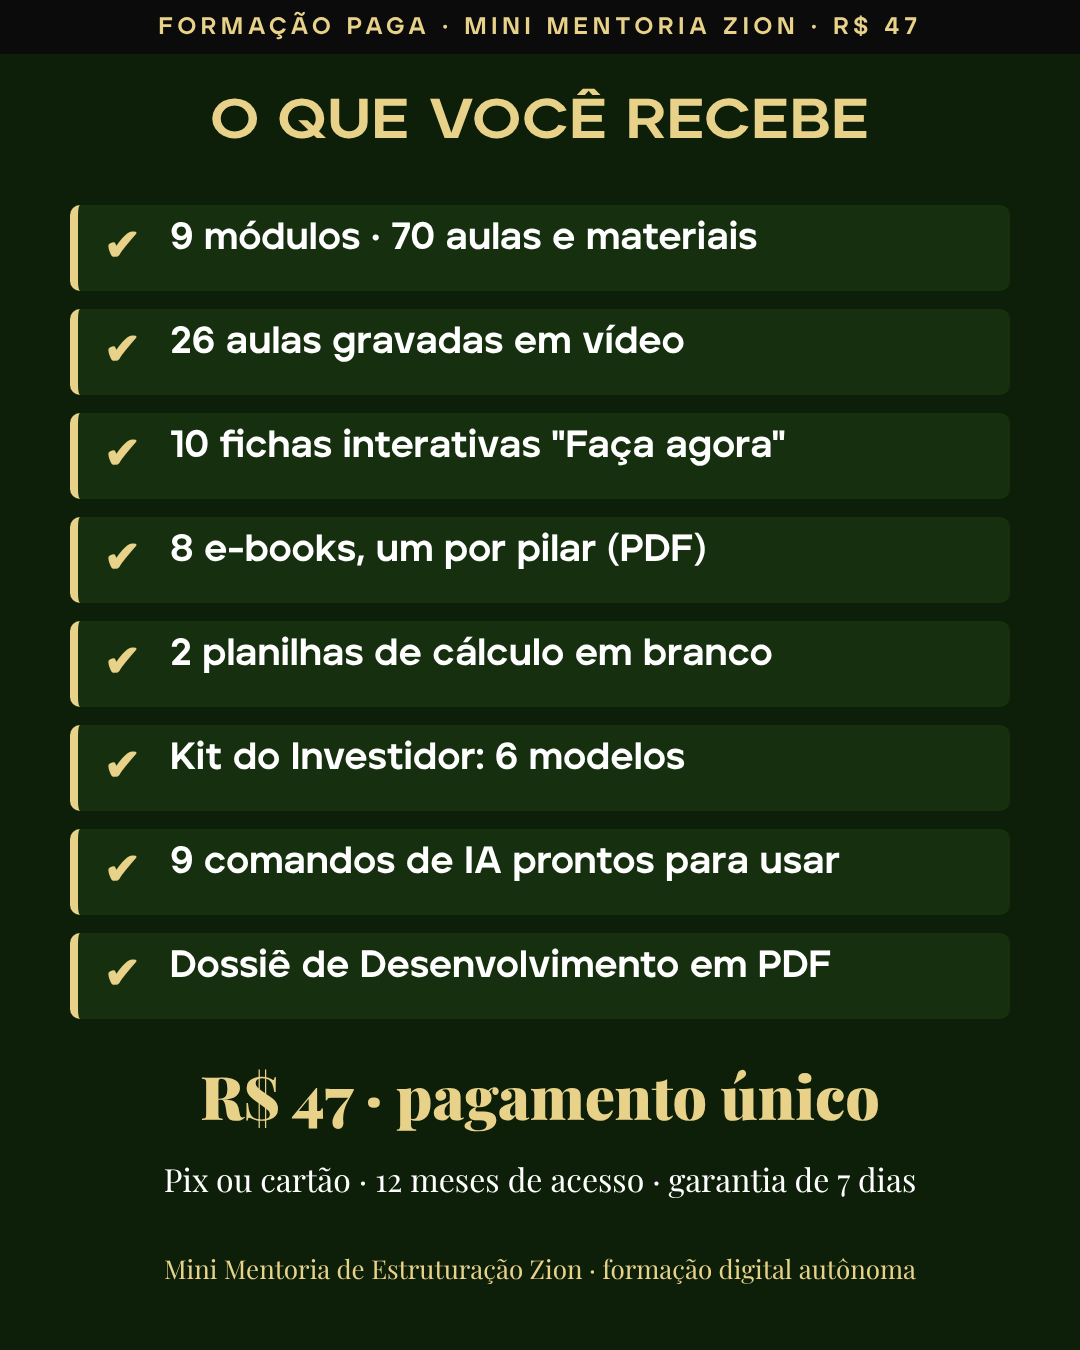
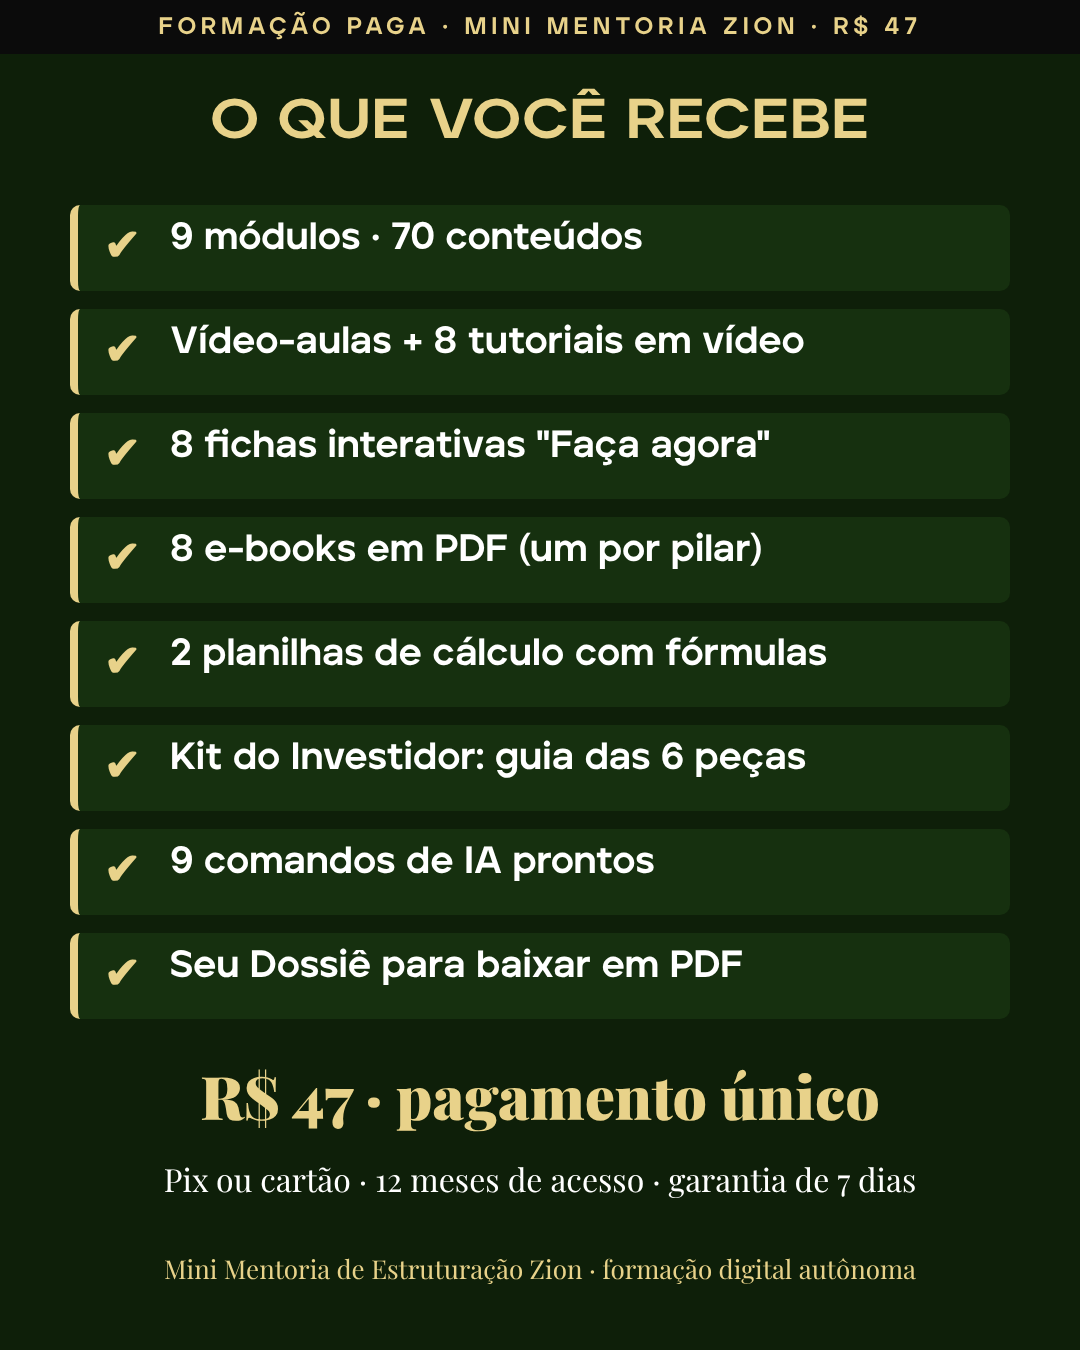
Carrossel C venda: cartão 8 com redação segura após a vistoria dos entregáveis
Claude-Session: https://claude.ai/code/session_01BzUk5bYdjCT6eSVqUG9zKZ

diff --git a/docs/ads/venda-carrossel-c/build.js b/docs/ads/venda-carrossel-c/build.js
@@ -59,14 +59,14 @@ const cards=[
 // 6b entregáveis claros (a pedido de Bruno): lista objetiva do que a pessoa recebe (contagens verificadas em ENTREGAVEIS_VERIFICADOS.md)
 [`o1.png`,`<div class="b" style="left:0;top:0;width:1080px;height:1350px;background:#0e1f09"></div>
 <div class="b w" style="left:60px;right:60px;top:92px;font-size:56px;color:#e8d28a">O que você recebe</div>
-<div class="b" style="left:70px;top:205px;width:940px;height:86px;background:#16300f;border-left:8px solid #e8d28a;border-radius:10px"></div><div class="b" style="left:104px;top:219px;font-family:A;font-weight:900;font-size:44px;color:#e8d28a">✔</div><div class="b" style="left:170px;width:830px;top:218px;font-family:A;font-weight:800;font-size:38px;color:#fff;line-height:1.1">9 módulos · 70 aulas e materiais</div>
-<div class="b" style="left:70px;top:309px;width:940px;height:86px;background:#16300f;border-left:8px solid #e8d28a;border-radius:10px"></div><div class="b" style="left:104px;top:323px;font-family:A;font-weight:900;font-size:44px;color:#e8d28a">✔</div><div class="b" style="left:170px;width:830px;top:322px;font-family:A;font-weight:800;font-size:38px;color:#fff;line-height:1.1">26 aulas gravadas em vídeo</div>
-<div class="b" style="left:70px;top:413px;width:940px;height:86px;background:#16300f;border-left:8px solid #e8d28a;border-radius:10px"></div><div class="b" style="left:104px;top:427px;font-family:A;font-weight:900;font-size:44px;color:#e8d28a">✔</div><div class="b" style="left:170px;width:830px;top:426px;font-family:A;font-weight:800;font-size:38px;color:#fff;line-height:1.1">10 fichas interativas "Faça agora"</div>
-<div class="b" style="left:70px;top:517px;width:940px;height:86px;background:#16300f;border-left:8px solid #e8d28a;border-radius:10px"></div><div class="b" style="left:104px;top:531px;font-family:A;font-weight:900;font-size:44px;color:#e8d28a">✔</div><div class="b" style="left:170px;width:830px;top:530px;font-family:A;font-weight:800;font-size:38px;color:#fff;line-height:1.1">8 e-books, um por pilar (PDF)</div>
-<div class="b" style="left:70px;top:621px;width:940px;height:86px;background:#16300f;border-left:8px solid #e8d28a;border-radius:10px"></div><div class="b" style="left:104px;top:635px;font-family:A;font-weight:900;font-size:44px;color:#e8d28a">✔</div><div class="b" style="left:170px;width:830px;top:634px;font-family:A;font-weight:800;font-size:38px;color:#fff;line-height:1.1">2 planilhas de cálculo em branco</div>
-<div class="b" style="left:70px;top:725px;width:940px;height:86px;background:#16300f;border-left:8px solid #e8d28a;border-radius:10px"></div><div class="b" style="left:104px;top:739px;font-family:A;font-weight:900;font-size:44px;color:#e8d28a">✔</div><div class="b" style="left:170px;width:830px;top:738px;font-family:A;font-weight:800;font-size:38px;color:#fff;line-height:1.1">Kit do Investidor: 6 modelos</div>
-<div class="b" style="left:70px;top:829px;width:940px;height:86px;background:#16300f;border-left:8px solid #e8d28a;border-radius:10px"></div><div class="b" style="left:104px;top:843px;font-family:A;font-weight:900;font-size:44px;color:#e8d28a">✔</div><div class="b" style="left:170px;width:830px;top:842px;font-family:A;font-weight:800;font-size:38px;color:#fff;line-height:1.1">9 comandos de IA prontos para usar</div>
-<div class="b" style="left:70px;top:933px;width:940px;height:86px;background:#16300f;border-left:8px solid #e8d28a;border-radius:10px"></div><div class="b" style="left:104px;top:947px;font-family:A;font-weight:900;font-size:44px;color:#e8d28a">✔</div><div class="b" style="left:170px;width:830px;top:946px;font-family:A;font-weight:800;font-size:38px;color:#fff;line-height:1.1">Dossiê de Desenvolvimento em PDF</div>
+<div class="b" style="left:70px;top:205px;width:940px;height:86px;background:#16300f;border-left:8px solid #e8d28a;border-radius:10px"></div><div class="b" style="left:104px;top:219px;font-family:A;font-weight:900;font-size:44px;color:#e8d28a">✔</div><div class="b" style="left:170px;width:830px;top:218px;font-family:A;font-weight:800;font-size:38px;color:#fff;line-height:1.1">9 módulos · 70 conteúdos</div>
+<div class="b" style="left:70px;top:309px;width:940px;height:86px;background:#16300f;border-left:8px solid #e8d28a;border-radius:10px"></div><div class="b" style="left:104px;top:323px;font-family:A;font-weight:900;font-size:44px;color:#e8d28a">✔</div><div class="b" style="left:170px;width:830px;top:322px;font-family:A;font-weight:800;font-size:38px;color:#fff;line-height:1.1">Vídeo-aulas + 8 tutoriais em vídeo</div>
+<div class="b" style="left:70px;top:413px;width:940px;height:86px;background:#16300f;border-left:8px solid #e8d28a;border-radius:10px"></div><div class="b" style="left:104px;top:427px;font-family:A;font-weight:900;font-size:44px;color:#e8d28a">✔</div><div class="b" style="left:170px;width:830px;top:426px;font-family:A;font-weight:800;font-size:38px;color:#fff;line-height:1.1">8 fichas interativas "Faça agora"</div>
+<div class="b" style="left:70px;top:517px;width:940px;height:86px;background:#16300f;border-left:8px solid #e8d28a;border-radius:10px"></div><div class="b" style="left:104px;top:531px;font-family:A;font-weight:900;font-size:44px;color:#e8d28a">✔</div><div class="b" style="left:170px;width:830px;top:530px;font-family:A;font-weight:800;font-size:38px;color:#fff;line-height:1.1">8 e-books em PDF (um por pilar)</div>
+<div class="b" style="left:70px;top:621px;width:940px;height:86px;background:#16300f;border-left:8px solid #e8d28a;border-radius:10px"></div><div class="b" style="left:104px;top:635px;font-family:A;font-weight:900;font-size:44px;color:#e8d28a">✔</div><div class="b" style="left:170px;width:830px;top:634px;font-family:A;font-weight:800;font-size:38px;color:#fff;line-height:1.1">2 planilhas de cálculo com fórmulas</div>
+<div class="b" style="left:70px;top:725px;width:940px;height:86px;background:#16300f;border-left:8px solid #e8d28a;border-radius:10px"></div><div class="b" style="left:104px;top:739px;font-family:A;font-weight:900;font-size:44px;color:#e8d28a">✔</div><div class="b" style="left:170px;width:830px;top:738px;font-family:A;font-weight:800;font-size:38px;color:#fff;line-height:1.1">Kit do Investidor: guia das 6 peças</div>
+<div class="b" style="left:70px;top:829px;width:940px;height:86px;background:#16300f;border-left:8px solid #e8d28a;border-radius:10px"></div><div class="b" style="left:104px;top:843px;font-family:A;font-weight:900;font-size:44px;color:#e8d28a">✔</div><div class="b" style="left:170px;width:830px;top:842px;font-family:A;font-weight:800;font-size:38px;color:#fff;line-height:1.1">9 comandos de IA prontos</div>
+<div class="b" style="left:70px;top:933px;width:940px;height:86px;background:#16300f;border-left:8px solid #e8d28a;border-radius:10px"></div><div class="b" style="left:104px;top:947px;font-family:A;font-weight:900;font-size:44px;color:#e8d28a">✔</div><div class="b" style="left:170px;width:830px;top:946px;font-family:A;font-weight:800;font-size:38px;color:#fff;line-height:1.1">Seu Dossiê para baixar em PDF</div>
 <div class="b s" style="left:60px;right:60px;top:1062px;font-size:60px;font-weight:900;color:#e8d28a">R$ 47 · pagamento único</div>
 <div class="b s" style="left:60px;right:60px;top:1160px;font-size:32px;color:#fff;line-height:1.2">Pix ou cartão · 12 meses de acesso · garantia de 7 dias</div>
 <div class="b s" style="left:60px;right:60px;top:1255px;font-size:26px;color:#e8d28a">Mini Mentoria de Estruturação Zion · formação digital autônoma</div>`],

diff --git a/docs/ads/venda-carrossel-c/COPIES.md b/docs/ads/venda-carrossel-c/COPIES.md
@@ -51,3 +51,6 @@ Observação: manifesto.json e painel-comparacao.jpg ainda descrevem a versão d
 - **Cartão 9 (novo): "Por dentro da plataforma"**, com duas telas reais maiores (Diagnóstico prévio e Pré-viabilidade) e "Cada ficha vira uma página do seu Dossiê de Desenvolvimento".
 - **Cartão 10:** conversão (botão "QUERO ACESSAR A PLATAFORMA POR R$47").
 - Não afirmar "70 aulas em vídeo" (só 26 são vídeo) nem calculadoras/simuladores.
+
+## Correção após a vistoria (25/11, VISTORIA_ENTREGAVEIS.md)
+Cartão 8 reescrito com a redação segura confirmada: 9 módulos · 70 conteúdos; Vídeo-aulas + 8 tutoriais em vídeo; 8 fichas interativas "Faça agora"; 8 e-books em PDF (um por pilar); 2 planilhas de cálculo com fórmulas; Kit do Investidor: guia das 6 peças; 9 comandos de IA prontos; Seu Dossiê para baixar em PDF. Saíram "70 aulas", "26 aulas gravadas" (eram 17 vídeo-aulas + 8 tutoriais + 1 boas-vindas, os 17 do YouTube não foram conferidos), "10 fichas" (são 8) e "6 modelos" (só 2 arquivos-modelo, não anexados). Termo para o total: "conteúdos"; "vídeo-aulas" só para vídeos; evitar "aulas" sem qualificar.
